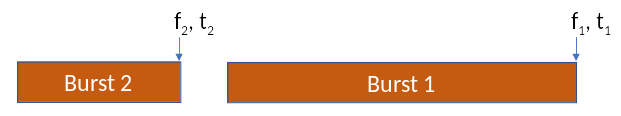
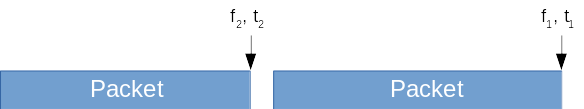
add burst definition

diff --git a/fei_3.0/README.md b/fei_3.0/README.md
@@ -383,7 +383,7 @@ This packet transmission process is shown below:
     double t4 = t3+10;
 
     BULKIO::PrecisionUTCTime tstamp = bulkio::time::utils::now();
-    double tfsec = tstamp.tfsec;
+    double twsec = tstamp.twsec;
 
     bulkio::OutShortStream outputStream = dataShort_out->getStream(stream_id);
     if (!outputStream) {
@@ -392,25 +392,25 @@ This packet transmission process is shown below:
     }
     redhawk::buffer<short> Packet1(size_packet_1);
     // data would be added to Packet1 here
-    tstamp.tfsec = tfsec + t1;
+    tstamp.twsec = twsec + t1;
     outputStream.write(Packet1, tstamp);
 
     redhawk::buffer<short> Packet2(size_packet_2);
     // data would be added to Packet2 here
-    tstamp.tfsec = tfsec + t2;
+    tstamp.twsec = twsec + t2;
     outputStream.write(Packet2, tstamp);
 
     redhawk::buffer<short> Packet3(size_packet_3);
     // data would be added to Packet3 here
-    tstamp.tfsec = tfsec + t3;
+    tstamp.twsec = twsec + t3;
     outputStream.write(Packet3, tstamp);
 
     redhawk::buffer<short> Packet4(size_packet_4);
     // data would be added to Packet4 here
-    tstamp.tfsec = tfsec + t4;
+    tstamp.twsec = twsec + t4;
     outputStream.write(Packet4, tstamp);
 ```
-As shown above, the different packets are queued through the port's stream API, with the provided timestamp giving the transmitter transmission directions.
+As shown above, the different packets are wqueued through the port's stream API, with the provided timestamp giving the transmitter transmission directions.
 BULK IO is also used when transmissions are to be sent over different frequencies.
 The re-tuning instructions are inserted as keyword CHAN_RF in SRI updates, as seen below:
 
@@ -426,7 +426,7 @@ The re-tuning instructions are inserted as keyword CHAN_RF in SRI updates, as se
     double f2 = 2e6;
 
     BULKIO::PrecisionUTCTime tstamp = bulkio::time::utils::now();
-    double tfsec = tstamp.tfsec;
+    double twsec = tstamp.twsec;
 
     bulkio::OutShortStream outputStream = dataShort_out->getStream(stream_id);
     if (!outputStream) {
@@ -440,14 +440,14 @@ The re-tuning instructions are inserted as keyword CHAN_RF in SRI updates, as se
     outputStream.keywords(new_keywords);
     redhawk::buffer<short> Packet1(size_packet_1);
     // data would be added to Packet1 here
-    tstamp.tfsec = tfsec + t1;
+    tstamp.twsec = twsec + t1;
     outputStream.write(Packet1, tstamp);
 
     new_keywords["CHAN_RF"] = f2;
     outputStream.keywords(new_keywords);
     redhawk::buffer<short> Packet2(size_packet_2);
     // data would be added to Packet2 here
-    tstamp.tfsec = tfsec + t2;
+    tstamp.twsec = twsec + t2;
     outputStream.write(Packet2, tstamp);
 ```
 
@@ -466,7 +466,7 @@ To provide a stream id a particular priority, add the keyword FRONTEND::PRIORITY
     short priority = 3;
 
     BULKIO::PrecisionUTCTime tstamp = bulkio::time::utils::now();
-    double tfsec = tstamp.tfsec;
+    double twsec = tstamp.twsec;
 
     bulkio::OutShortStream outputStream = dataShort_out->getStream(stream_id);
     if (!outputStream) {
@@ -481,7 +481,7 @@ To provide a stream id a particular priority, add the keyword FRONTEND::PRIORITY
     outputStream.keywords(new_keywords);
     redhawk::buffer<short> Packet1(size_packet_1);
     // data would be added to Packet1 here
-    tstamp.tfsec = tfsec + t1;
+    tstamp.twsec = twsec + t1;
     outputStream.write(Packet1, tstamp);
 
     new_keywords["CHAN_RF"] = f2;
@@ -489,11 +489,23 @@ To provide a stream id a particular priority, add the keyword FRONTEND::PRIORITY
     outputStream.keywords(new_keywords);
     redhawk::buffer<short> Packet2(size_packet_2);
     // data would be added to Packet2 here
-    tstamp.tfsec = tfsec + t2;
+    tstamp.twsec = twsec + t2;
     outputStream.write(Packet2, tstamp);
 ```
 
 When overlapping scheduled transmissions conflict, the transmission with the higher priority is transmitted.
+
+### Continuous burst
+
+To transmit multiple packets as a single continuous signal burst, setting the timestamp to immediately follow end of the last symbol can lead to undefined boundary conditions.
+
+![Continuous Transmission](single_burst.png)
+
+To remove the ambiguity of the transmitted construct, the timestamp in subsequent packet(s) can be set such that the separate packets are interpreted by the transmitter as a continuous transmitted signal.
+Set the timestamp to invalid and both the whole (twsec) and fractional (tfsec) to 0, as shown below:
+
+
+### Feedback
 
 Feedback from the device is sent through the DUC's status port, as seen in the following figure:
 
